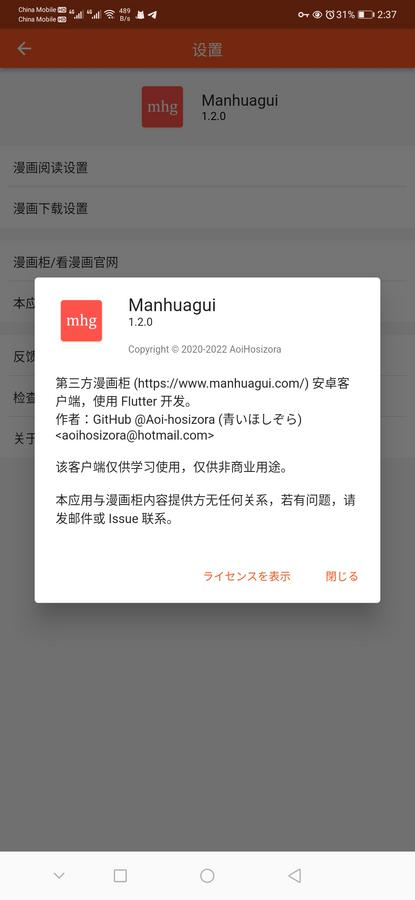
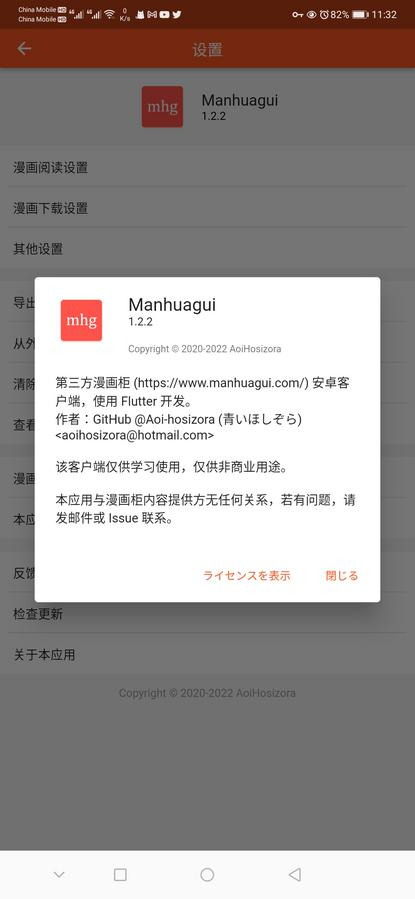
feat(*): update splash screen, upgrade version to v1.2.2 and update assets

diff --git a/lib/config.dart b/lib/config.dart
@@ -1,7 +1,7 @@
 // ignore_for_file: constant_identifier_names
 
 const APP_NAME = 'Manhuagui';
-const APP_VERSION = '1.2.1';
+const APP_VERSION = '1.2.2';
 const APP_LEGALESE = 'Copyright © 2020-2022 AoiHosizora';
 const APP_DESCRIPTION = //
     '第三方漫画柜 ($WEB_HOMEPAGE_URL) 安卓客户端，使用 Flutter 开发。\n'
